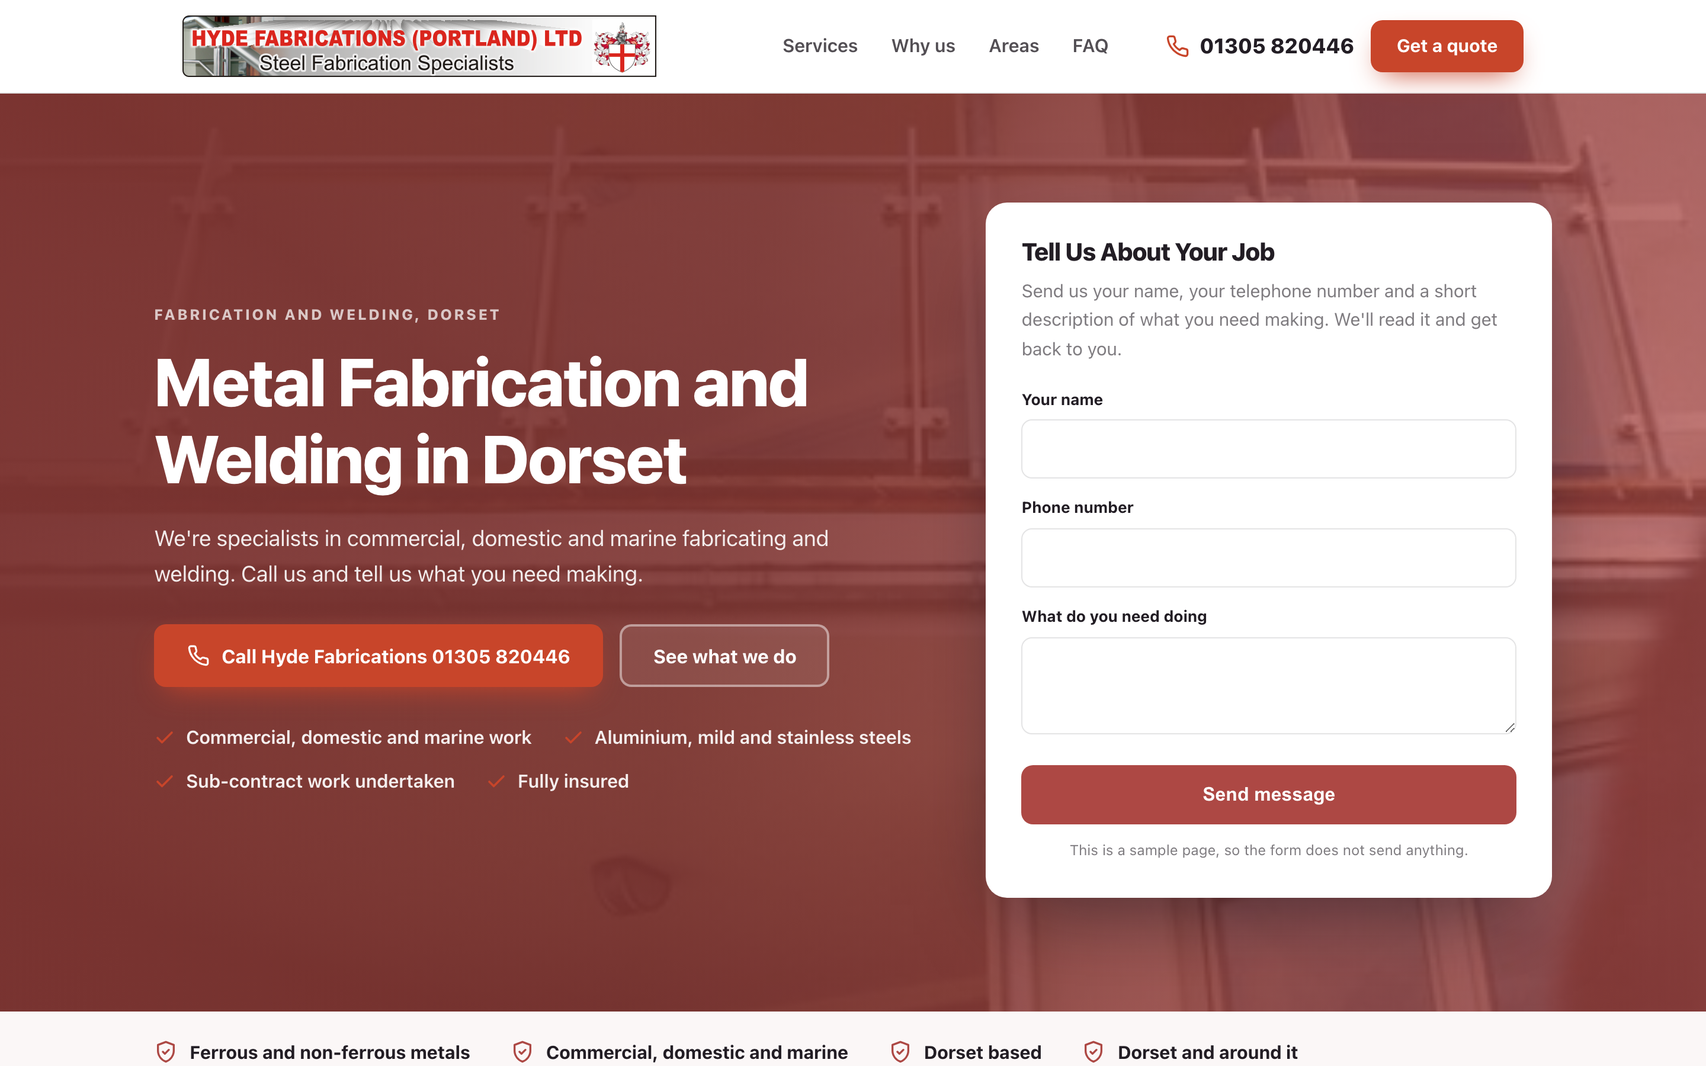
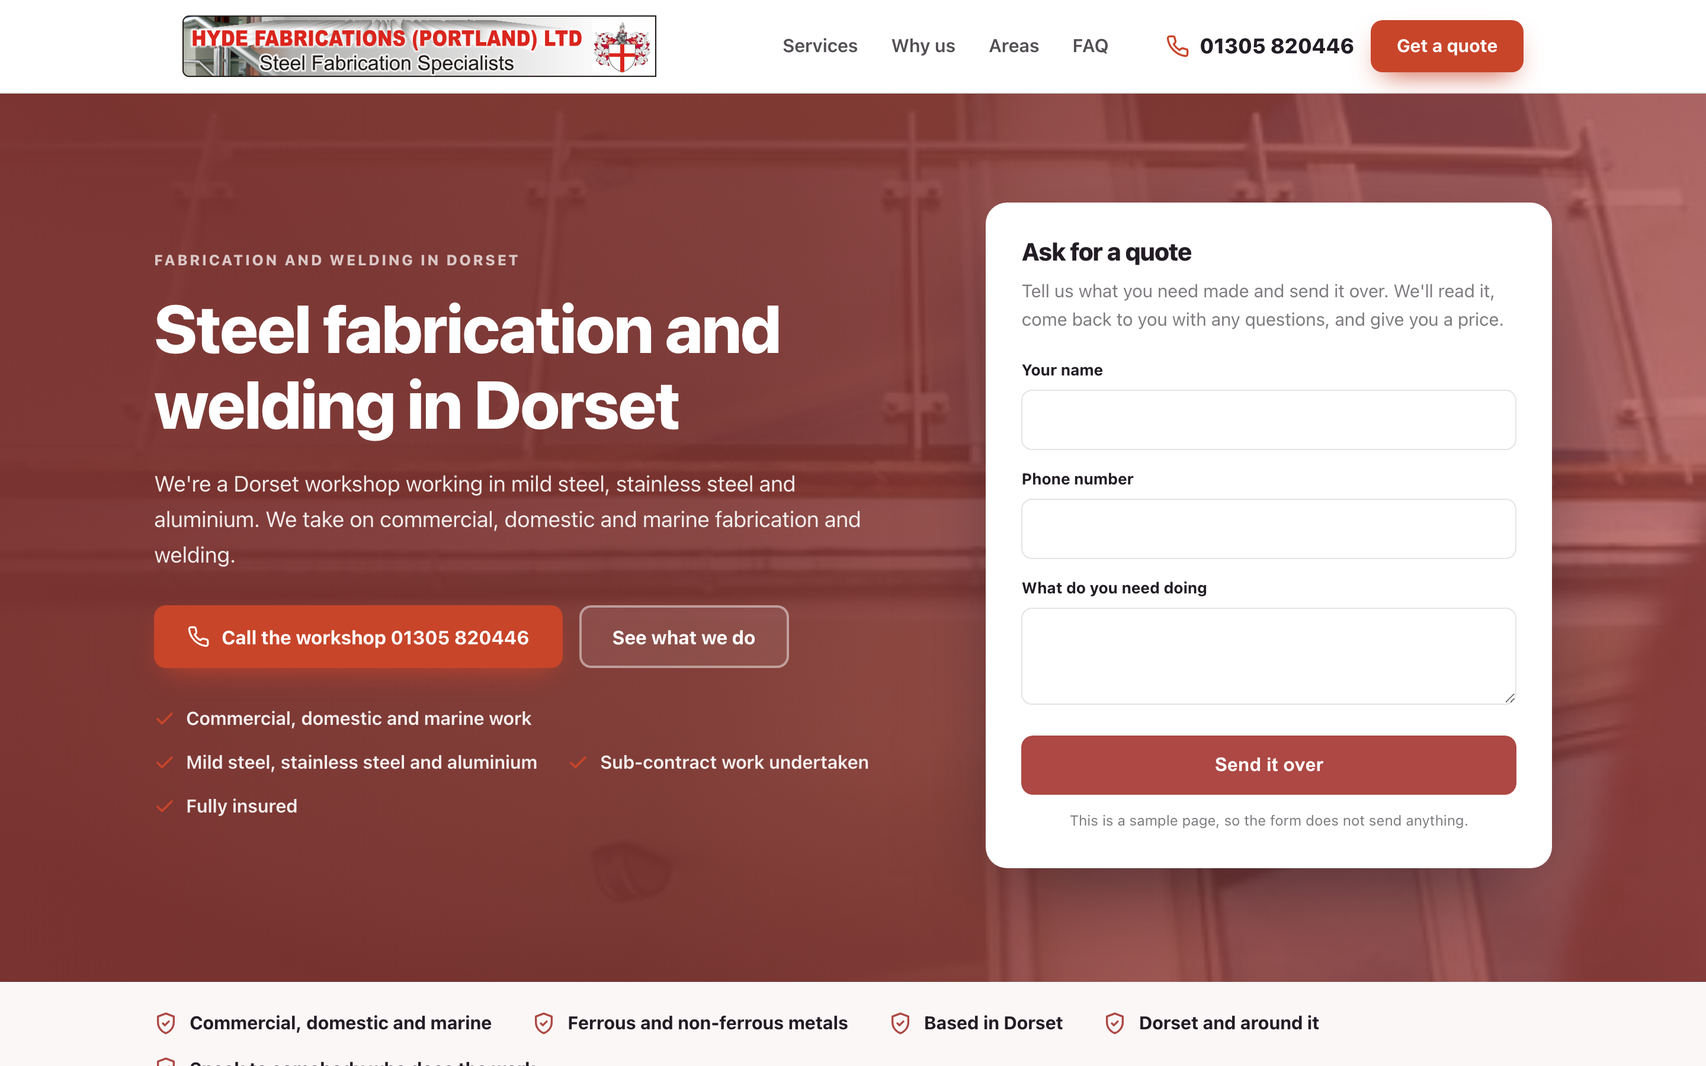
One page sample for Hyde Fabrications Ltd

diff --git a/docs/2bf4139ff9/index.html b/docs/2bf4139ff9/index.html
@@ -4,14 +4,14 @@
 <meta charset="utf-8">
 <meta name="viewport" content="width=device-width, initial-scale=1">
 <meta name="robots" content="noindex,nofollow">
-<meta name="aso-build" content="1566d9798970">
+<meta name="aso-build" content="52bd52a461d7">
 <title>Steel Fabrication in Dorset | Hyde Fabrications Ltd</title>
-<meta name="description" content="Hyde Fabrications are specialists in commercial, domestic and marine fabricating and welding in Dorset. Balustrades, staircases and railings made to order.">
+<meta name="description" content="Steel fabrication and welding in Dorset. Balustrades, staircases and railings in mild steel, stainless steel and aluminium. Fully insured. Call for a quote.">
 <link rel="canonical" href="https://markygff.github.io/aso-mockups/2bf4139ff9/">
 <meta property="og:type" content="website">
 <meta property="og:site_name" content="Hyde Fabrications Ltd">
 <meta property="og:title" content="Steel Fabrication in Dorset | Hyde Fabrications Ltd">
-<meta property="og:description" content="Hyde Fabrications are specialists in commercial, domestic and marine fabricating and welding in Dorset. Balustrades, staircases and railings made to order.">
+<meta property="og:description" content="Steel fabrication and welding in Dorset. Balustrades, staircases and railings in mild steel, stainless steel and aluminium. Fully insured. Call for a quote.">
 <meta property="og:url" content="https://markygff.github.io/aso-mockups/2bf4139ff9/">
 <meta property="og:image" content="img/t01.jpg"><meta name="twitter:card" content="summary_large_image">
 <style>
@@ -217,19 +217,19 @@ p{margin:0}
   <div class="hero-bg"><img src="img/t01.jpg" alt="Fabrications in Dorset" width="1600" height="900"></div>
   <div class="wrap hero-in">
     <div>
-      <p class="eyebrow">Fabrication and welding, Dorset</p>
-      <h1>Metal Fabrication and Welding in Dorset</h1>
-      <p class="hero-sub">We&#39;re specialists in commercial, domestic and marine fabricating and welding. Call us and tell us what you need making.</p>
+      <p class="eyebrow">Fabrication and welding in Dorset</p>
+      <h1>Steel fabrication and welding in Dorset</h1>
+      <p class="hero-sub">We&#39;re a Dorset workshop working in mild steel, stainless steel and aluminium. We take on commercial, domestic and marine fabrication and welding.</p>
       <div class="hero-actions">
-        <a class="btn btn-accent" href="tel:+441305820446"><svg viewBox="0 0 24 24" fill="none" stroke="currentColor" stroke-width="2" stroke-linecap="round" stroke-linejoin="round" aria-hidden="true"><path d="M22 16.9v3a2 2 0 0 1-2.2 2 19.8 19.8 0 0 1-8.6-3.1 19.5 19.5 0 0 1-6-6 19.8 19.8 0 0 1-3.1-8.7A2 2 0 0 1 4.1 2h3a2 2 0 0 1 2 1.7c.1 1 .4 1.9.7 2.8a2 2 0 0 1-.5 2.1L8.1 9.9a16 16 0 0 0 6 6l1.3-1.2a2 2 0 0 1 2.1-.5c.9.3 1.8.6 2.8.7a2 2 0 0 1 1.7 2z"/></svg>Call Hyde Fabrications 01305 820446</a>
+        <a class="btn btn-accent" href="tel:+441305820446"><svg viewBox="0 0 24 24" fill="none" stroke="currentColor" stroke-width="2" stroke-linecap="round" stroke-linejoin="round" aria-hidden="true"><path d="M22 16.9v3a2 2 0 0 1-2.2 2 19.8 19.8 0 0 1-8.6-3.1 19.5 19.5 0 0 1-6-6 19.8 19.8 0 0 1-3.1-8.7A2 2 0 0 1 4.1 2h3a2 2 0 0 1 2 1.7c.1 1 .4 1.9.7 2.8a2 2 0 0 1-.5 2.1L8.1 9.9a16 16 0 0 0 6 6l1.3-1.2a2 2 0 0 1 2.1-.5c.9.3 1.8.6 2.8.7a2 2 0 0 1 1.7 2z"/></svg>Call the workshop 01305 820446</a>
         <a class="btn btn-ghost" href="#services">See what we do</a>
       </div>
       <ul class="hero-bullets">
-<li><svg viewBox="0 0 24 24" fill="none" stroke="currentColor" stroke-width="2.4" stroke-linecap="round" stroke-linejoin="round" aria-hidden="true"><path d="M20 6 9 17l-5-5"/></svg><span>Commercial, domestic and marine work</span></li><li><svg viewBox="0 0 24 24" fill="none" stroke="currentColor" stroke-width="2.4" stroke-linecap="round" stroke-linejoin="round" aria-hidden="true"><path d="M20 6 9 17l-5-5"/></svg><span>Aluminium, mild and stainless steels</span></li><li><svg viewBox="0 0 24 24" fill="none" stroke="currentColor" stroke-width="2.4" stroke-linecap="round" stroke-linejoin="round" aria-hidden="true"><path d="M20 6 9 17l-5-5"/></svg><span>Sub-contract work undertaken</span></li><li><svg viewBox="0 0 24 24" fill="none" stroke="currentColor" stroke-width="2.4" stroke-linecap="round" stroke-linejoin="round" aria-hidden="true"><path d="M20 6 9 17l-5-5"/></svg><span>Fully insured</span></li>      </ul>
+<li><svg viewBox="0 0 24 24" fill="none" stroke="currentColor" stroke-width="2.4" stroke-linecap="round" stroke-linejoin="round" aria-hidden="true"><path d="M20 6 9 17l-5-5"/></svg><span>Commercial, domestic and marine work</span></li><li><svg viewBox="0 0 24 24" fill="none" stroke="currentColor" stroke-width="2.4" stroke-linecap="round" stroke-linejoin="round" aria-hidden="true"><path d="M20 6 9 17l-5-5"/></svg><span>Mild steel, stainless steel and aluminium</span></li><li><svg viewBox="0 0 24 24" fill="none" stroke="currentColor" stroke-width="2.4" stroke-linecap="round" stroke-linejoin="round" aria-hidden="true"><path d="M20 6 9 17l-5-5"/></svg><span>Sub-contract work undertaken</span></li><li><svg viewBox="0 0 24 24" fill="none" stroke="currentColor" stroke-width="2.4" stroke-linecap="round" stroke-linejoin="round" aria-hidden="true"><path d="M20 6 9 17l-5-5"/></svg><span>Fully insured</span></li>      </ul>
     </div>
     <div class="quote-card" id="quote">
-      <h3>Tell Us About Your Job</h3>
-      <p class="lead">Send us your name, your telephone number and a short description of what you need making. We&#39;ll read it and get back to you.</p>
+      <h3>Ask for a quote</h3>
+      <p class="lead">Tell us what you need made and send it over. We&#39;ll read it, come back to you with any questions, and give you a price.</p>
       <form action="#" onsubmit="return false" novalidate>
         <div class="field"><label for="h-name">Your name</label>
           <input id="h-name" name="name" type="text" autocomplete="name"></div>
@@ -237,7 +237,7 @@ p{margin:0}
           <input id="h-phone" name="phone" type="tel" autocomplete="tel"></div>
         <div class="field"><label for="h-job">What do you need doing</label>
           <textarea id="h-job" name="job"></textarea></div>
-        <button class="btn btn-primary" type="button">Send message</button>
+        <button class="btn btn-primary" type="button">Send it over</button>
       </form>
       <p class="sample-note">This is a sample page, so the form does not send anything.</p>
     </div>
@@ -246,9 +246,9 @@ p{margin:0}
 
 <div class="trust">
   <div class="wrap trust-in">
-    <div class="trust-item"><svg viewBox="0 0 24 24" fill="none" stroke="currentColor" stroke-width="2" stroke-linecap="round" stroke-linejoin="round" aria-hidden="true"><path d="M12 2 4 5v6c0 5 3.4 9.4 8 11 4.6-1.6 8-6 8-11V5z"/><path d="m9 12 2 2 4-4"/></svg><span>Ferrous and non-ferrous metals</span></div>
     <div class="trust-item"><svg viewBox="0 0 24 24" fill="none" stroke="currentColor" stroke-width="2" stroke-linecap="round" stroke-linejoin="round" aria-hidden="true"><path d="M12 2 4 5v6c0 5 3.4 9.4 8 11 4.6-1.6 8-6 8-11V5z"/><path d="m9 12 2 2 4-4"/></svg><span>Commercial, domestic and marine</span></div>
-    <div class="trust-item"><svg viewBox="0 0 24 24" fill="none" stroke="currentColor" stroke-width="2" stroke-linecap="round" stroke-linejoin="round" aria-hidden="true"><path d="M12 2 4 5v6c0 5 3.4 9.4 8 11 4.6-1.6 8-6 8-11V5z"/><path d="m9 12 2 2 4-4"/></svg><span>Dorset based</span></div>
+    <div class="trust-item"><svg viewBox="0 0 24 24" fill="none" stroke="currentColor" stroke-width="2" stroke-linecap="round" stroke-linejoin="round" aria-hidden="true"><path d="M12 2 4 5v6c0 5 3.4 9.4 8 11 4.6-1.6 8-6 8-11V5z"/><path d="m9 12 2 2 4-4"/></svg><span>Ferrous and non-ferrous metals</span></div>
+    <div class="trust-item"><svg viewBox="0 0 24 24" fill="none" stroke="currentColor" stroke-width="2" stroke-linecap="round" stroke-linejoin="round" aria-hidden="true"><path d="M12 2 4 5v6c0 5 3.4 9.4 8 11 4.6-1.6 8-6 8-11V5z"/><path d="m9 12 2 2 4-4"/></svg><span>Based in Dorset</span></div>
     <div class="trust-item"><svg viewBox="0 0 24 24" fill="none" stroke="currentColor" stroke-width="2" stroke-linecap="round" stroke-linejoin="round" aria-hidden="true"><path d="M12 2 4 5v6c0 5 3.4 9.4 8 11 4.6-1.6 8-6 8-11V5z"/><path d="m9 12 2 2 4-4"/></svg><span>Dorset and around it</span></div>
     <div class="trust-item"><svg viewBox="0 0 24 24" fill="none" stroke="currentColor" stroke-width="2" stroke-linecap="round" stroke-linejoin="round" aria-hidden="true"><path d="M12 2 4 5v6c0 5 3.4 9.4 8 11 4.6-1.6 8-6 8-11V5z"/><path d="m9 12 2 2 4-4"/></svg><span>Speak to somebody who does the work</span></div>
   </div>
@@ -258,29 +258,29 @@ p{margin:0}
   <div class="wrap">
     <div class="section-head">
       <p class="eyebrow">What we do</p>
-      <h2>Our Fabrication and Welding Work</h2>
-      <p>Here is what Hyde Fabrications lists. If your job is not on here, give us a ring and we&#39;ll tell you straight whether we can do it.</p>
+      <h2>Fabrication and welding services</h2>
+      <p>Here&#39;s what we make, and where our metal comes from. If your job isn&#39;t listed, ask us and we&#39;ll tell you whether we can do it.</p>
     </div>
     <div class="grid grid-3">
       <article class="card">
         <div class="icon"><svg viewBox="0 0 24 24" fill="none" stroke="currentColor" stroke-width="2" stroke-linecap="round" stroke-linejoin="round" aria-hidden="true"><path d="M14.7 6.3a4 4 0 0 0 5.3 5.3l-8 8a3 3 0 0 1-4.2-4.2z"/><path d="m14.7 6.3 3-3"/></svg></div>
         <h3>Balustrades, Staircases and Railings</h3>
-        <p>We make balustrades, staircases and railings in mild steel, stainless steel or aluminium, for commercial, domestic and marine jobs.</p>
+        <p>Balustrades, staircases and railings in mild steel, stainless steel or aluminium, made to your sizes and fitted on site.</p>
       </article>
       <article class="card">
         <div class="icon"><svg viewBox="0 0 24 24" fill="none" stroke="currentColor" stroke-width="2" stroke-linecap="round" stroke-linejoin="round" aria-hidden="true"><path d="M13 2 4 14h7l-1 8 9-12h-7z"/></svg></div>
         <h3>Photo Gallery</h3>
-        <p>A set of photos of work we have already made. Worth a look if you want to see the standard before you ring us.</p>
+        <p>Have a look at past work before you ring. The gallery shows fabrication we&#39;ve made and fitted in Dorset.</p>
       </article>
       <article class="card">
         <div class="icon"><svg viewBox="0 0 24 24" fill="none" stroke="currentColor" stroke-width="2" stroke-linecap="round" stroke-linejoin="round" aria-hidden="true"><path d="M3 10.5 12 3l9 7.5"/><path d="M5 9.5V21h14V9.5"/><path d="M10 21v-6h4v6"/></svg></div>
         <h3>Parker Steel</h3>
-        <p>One of the metal suppliers we list. They distribute steel and non-ferrous metals to industry and to the trade.</p>
+        <p>ParkerSteel distribute to industry and supply steel and non-ferrous metals to the trade and DIY. They&#39;re one of the suppliers we list.</p>
       </article>
       <article class="card">
         <div class="icon"><svg viewBox="0 0 24 24" fill="none" stroke="currentColor" stroke-width="2" stroke-linecap="round" stroke-linejoin="round" aria-hidden="true"><path d="M4 20 15 9"/><path d="m14 4 6 6-3 3-6-6z"/><path d="m3 15 6 6"/></svg></div>
         <h3>www.parkersteel.co.uk</h3>
-        <p>The Parker Steel website, listed on our links page for anyone sourcing their own steel or non-ferrous metal.</p>
+        <p>The ParkerSteel website, on our links page for anyone buying steel or non-ferrous metals online at trade prices.</p>
       </article>
     </div>
   </div>
@@ -290,35 +290,35 @@ p{margin:0}
   <div class="wrap">
     <div class="section-head">
       <p class="eyebrow">Why us</p>
-      <h2>Why People Ring Us</h2>
+      <h2>Why people use us</h2>
     </div>
     <div class="grid grid-2">
       <div class="why-item">
         <div class="why-badge">1</div>
         <div>
           <h3>Commercial, domestic and marine</h3>
-          <p>We work across all three. A handrail for a house, a job for a business, or fabricating and welding for a boat.</p>
+          <p>All three come out of the same workshop, so a house handrail and a boatyard job get the same welder.</p>
         </div>
       </div>
       <div class="why-item">
         <div class="why-badge">2</div>
         <div>
           <h3>Ferrous and non-ferrous</h3>
-          <p>We work in aluminium, mild steel and stainless steel, so the metal can suit the job rather than the job suiting the metal.</p>
+          <p>We work in aluminium, mild steel and stainless steel, ferrous and non-ferrous, so the metal suits the job.</p>
         </div>
       </div>
       <div class="why-item">
         <div class="why-badge">3</div>
         <div>
-          <h3>Sub-contract work</h3>
-          <p>We take sub-contract work. If you have more on than you can get through, tell us what you need and we&#39;ll pick it up.</p>
+          <h3>Fully insured</h3>
+          <p>We&#39;re fully insured, which matters on site work and on jobs for other trades.</p>
         </div>
       </div>
       <div class="why-item">
         <div class="why-badge">4</div>
         <div>
-          <h3>Fully insured</h3>
-          <p>We&#39;re fully insured, which matters when we&#39;re working on your property or on somebody else&#39;s site.</p>
+          <h3>Sub-contract work</h3>
+          <p>We take on sub-contract work for builders and other trades who need fabricating and welding done.</p>
         </div>
       </div>
     </div>
@@ -330,8 +330,8 @@ p{margin:0}
   <div class="wrap">
     <div class="section-head">
       <p class="eyebrow">Where we work</p>
-      <h2>Fabrication and Welding Across Dorset</h2>
-      <p>We&#39;re based in Dorset and that is where we work. Ring us with the postcode of the job and we&#39;ll tell you if we can get to you.</p>
+      <h2>Fabrication across Dorset</h2>
+      <p>We cover Dorset. If you&#39;re just outside it, ask us and we&#39;ll tell you straight away whether we can help.</p>
     </div>
     <ul class="area-list">
 <li>Dorset</li>    </ul>
@@ -342,27 +342,27 @@ p{margin:0}
   <div class="wrap" style="max-width:840px">
     <div class="section-head">
       <p class="eyebrow">Questions</p>
-      <h2>Common Questions</h2>
+      <h2>Common questions</h2>
     </div>
     <div class="faq-item">
-      <h3><span>Q.</span>Where are you based and do you cover my area?</h3>
-      <p>We&#39;re in Dorset and that is the area we work in. Our address and a map are on this page. If you are not sure whether we reach you, ring us with the postcode of the job and we&#39;ll tell you.</p>
+      <h3><span>Q.</span>What areas do you cover for steel fabrication?</h3>
+      <p>We cover Dorset. If you&#39;re near the edge of it, give us a ring with the job and the postcode and we&#39;ll tell you whether we can get to you.</p>
+    </div>
+    <div class="faq-item">
+      <h3><span>Q.</span>Do you make balustrades and staircases to measure?</h3>
+      <p>Yes. Balustrades, staircases and railings are made to your sizes in mild steel, stainless steel or aluminium, then fitted.</p>
     </div>
     <div class="faq-item">
       <h3><span>Q.</span>What metals do you work with?</h3>
-      <p>Ferrous and non-ferrous, including aluminium, mild steel and stainless steel. If you are not sure which is right, tell us where the work is going and how it will be used, and we&#39;ll talk it through with you.</p>
+      <p>Ferrous and non-ferrous, including aluminium, mild steel and stainless steel. Tell us what the job is and we&#39;ll advise on the metal.</p>
     </div>
     <div class="faq-item">
-      <h3><span>Q.</span>Do you make balustrades, staircases and railings?</h3>
-      <p>Yes. Balustrades, staircases and railings are one of the things we list, and we make them in mild steel, stainless steel or aluminium for commercial, domestic and marine work.</p>
+      <h3><span>Q.</span>Do you take on sub-contract work for builders?</h3>
+      <p>Yes, we undertake sub-contract work. Send the drawings or the sizes and we&#39;ll tell you if it&#39;s something we can take on.</p>
     </div>
     <div class="faq-item">
-      <h3><span>Q.</span>Do you take sub-contract work?</h3>
-      <p>Yes, sub-contract work is undertaken. If you are a builder, a boatyard or another fabricator with more on than you can handle, send us the drawings or the details and we&#39;ll come back to you.</p>
-    </div>
-    <div class="faq-item">
-      <h3><span>Q.</span>How do I get a price for a fabrication job?</h3>
-      <p>Use the form on this page or give us a ring. Tell us what you need making, the metal if you already know it, the sizes if you have them, and where it is going. We&#39;ll come back to you with what we can do.</p>
+      <h3><span>Q.</span>How much does a steel balustrade or staircase cost?</h3>
+      <p>There&#39;s no set price, because every job is a different size and metal. Send us the measurements and what you want it to look like, and we&#39;ll come back with a price.</p>
     </div>
   </div>
 </section>
@@ -371,8 +371,8 @@ p{margin:0}
   <div class="wrap contact-in">
     <div>
       <p class="eyebrow">Get in touch</p>
-      <h2 style="font-size:clamp(1.75rem,3.2vw,2.4rem);margin-bottom:14px">Tell Us About Your Job</h2>
-      <p style="color:var(--muted);font-size:1.06rem">Send us your name, your telephone number and a short description of what you need making. We&#39;ll read it and get back to you.</p>
+      <h2 style="font-size:clamp(1.75rem,3.2vw,2.4rem);margin-bottom:14px">Ask for a quote</h2>
+      <p style="color:var(--muted);font-size:1.06rem">Tell us what you need made and send it over. We&#39;ll read it, come back to you with any questions, and give you a price.</p>
       <div class="contact-facts">
         <div class="fact-row"><svg viewBox="0 0 24 24" fill="none" stroke="currentColor" stroke-width="2" stroke-linecap="round" stroke-linejoin="round" aria-hidden="true"><path d="M22 16.9v3a2 2 0 0 1-2.2 2 19.8 19.8 0 0 1-8.6-3.1 19.5 19.5 0 0 1-6-6 19.8 19.8 0 0 1-3.1-8.7A2 2 0 0 1 4.1 2h3a2 2 0 0 1 2 1.7c.1 1 .4 1.9.7 2.8a2 2 0 0 1-.5 2.1L8.1 9.9a16 16 0 0 0 6 6l1.3-1.2a2 2 0 0 1 2.1-.5c.9.3 1.8.6 2.8.7a2 2 0 0 1 1.7 2z"/></svg><div><strong>Phone</strong>
           <a href="tel:+441305820446">01305 820446</a></div></div>
@@ -397,7 +397,7 @@ p{margin:0}
         <div class="field"><label for="c-msg">Tell us about the job</label>
           <textarea id="c-msg" name="message"></textarea></div>
         <button class="btn btn-accent" type="button" style="width:100%;justify-content:center">
-          Send message</button>
+          Send it over</button>
         <p class="sample-note">Sample page. Nothing is sent and nothing is stored.</p>
       </form>
     </div>
@@ -409,7 +409,7 @@ p{margin:0}
     <div class="footer-in">
       <div>
         <div class="footer-brand">Hyde Fabrications Ltd</div>
-        <p>Commercial, domestic and marine fabricating and welding in Dorset.</p>
+        <p>Fabrication and welding in Dorset, in mild steel, stainless steel and aluminium.</p>
 <p style="margin-top:14px"><a href="tel:+441305820446">01305 820446</a></p>      </div>
       <div>
         <h4>Services</h4>
@@ -433,7 +433,7 @@ p{margin:0}
     "@type": "GeneralContractor",
     "name": "Hyde Fabrications Ltd",
     "url": "https://markygff.github.io/aso-mockups/2bf4139ff9/",
-    "description": "Hyde Fabrications are specialists in commercial, domestic and marine fabricating and welding in Dorset. Balustrades, staircases and railings made to order.",
+    "description": "Steel fabrication and welding in Dorset. Balustrades, staircases and railings in mild steel, stainless steel and aluminium. Fully insured. Call for a quote.",
     "telephone": "01305 820446",
     "address": {
       "@type": "PostalAddress",
@@ -485,10 +485,18 @@ p{margin:0}
     "mainEntity": [
       {
         "@type": "Question",
-        "name": "Where are you based and do you cover my area?",
+        "name": "What areas do you cover for steel fabrication?",
         "acceptedAnswer": {
           "@type": "Answer",
-          "text": "We're in Dorset and that is the area we work in. Our address and a map are on this page. If you are not sure whether we reach you, ring us with the postcode of the job and we'll tell you."
+          "text": "We cover Dorset. If you're near the edge of it, give us a ring with the job and the postcode and we'll tell you whether we can get to you."
+        }
+      },
+      {
+        "@type": "Question",
+        "name": "Do you make balustrades and staircases to measure?",
+        "acceptedAnswer": {
+          "@type": "Answer",
+          "text": "Yes. Balustrades, staircases and railings are made to your sizes in mild steel, stainless steel or aluminium, then fitted."
         }
       },
       {
@@ -496,31 +504,23 @@ p{margin:0}
         "name": "What metals do you work with?",
         "acceptedAnswer": {
           "@type": "Answer",
-          "text": "Ferrous and non-ferrous, including aluminium, mild steel and stainless steel. If you are not sure which is right, tell us where the work is going and how it will be used, and we'll talk it through with you."
+          "text": "Ferrous and non-ferrous, including aluminium, mild steel and stainless steel. Tell us what the job is and we'll advise on the metal."
         }
       },
       {
         "@type": "Question",
-        "name": "Do you make balustrades, staircases and railings?",
+        "name": "Do you take on sub-contract work for builders?",
         "acceptedAnswer": {
           "@type": "Answer",
-          "text": "Yes. Balustrades, staircases and railings are one of the things we list, and we make them in mild steel, stainless steel or aluminium for commercial, domestic and marine work."
+          "text": "Yes, we undertake sub-contract work. Send the drawings or the sizes and we'll tell you if it's something we can take on."
         }
       },
       {
         "@type": "Question",
-        "name": "Do you take sub-contract work?",
+        "name": "How much does a steel balustrade or staircase cost?",
         "acceptedAnswer": {
           "@type": "Answer",
-          "text": "Yes, sub-contract work is undertaken. If you are a builder, a boatyard or another fabricator with more on than you can handle, send us the drawings or the details and we'll come back to you."
-        }
-      },
-      {
-        "@type": "Question",
-        "name": "How do I get a price for a fabrication job?",
-        "acceptedAnswer": {
-          "@type": "Answer",
-          "text": "Use the form on this page or give us a ring. Tell us what you need making, the metal if you already know it, the sizes if you have them, and where it is going. We'll come back to you with what we can do."
+          "text": "There's no set price, because every job is a different size and metal. Send us the measurements and what you want it to look like, and we'll come back with a price."
         }
       }
     ]
